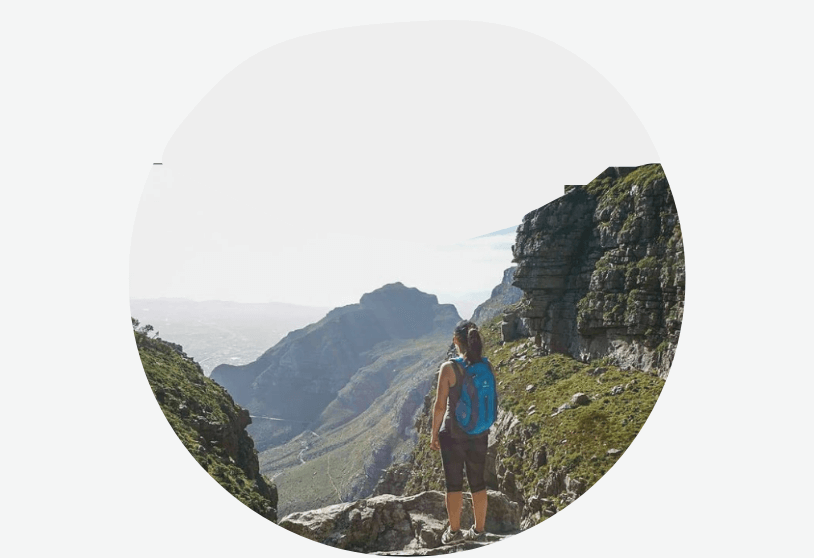
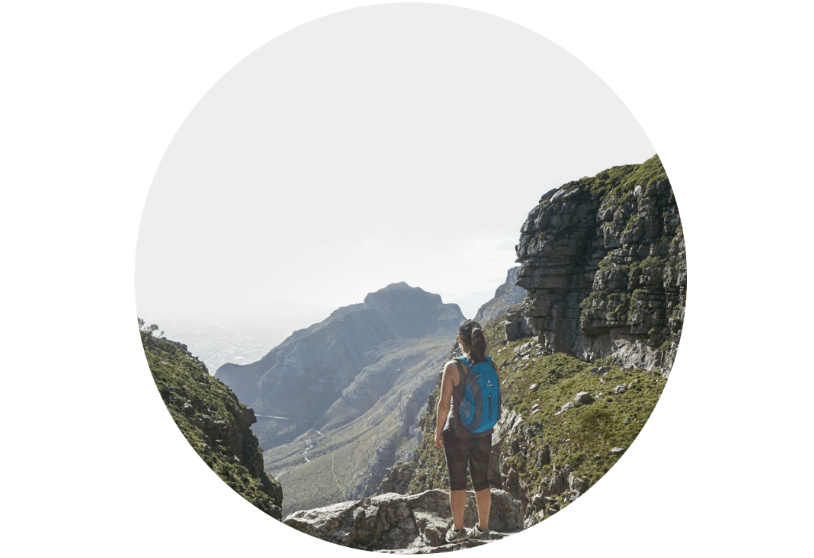
Replaced about images
Replaced about images with new images

diff --git a/src/styles/pages/_about.scss b/src/styles/pages/_about.scss
@@ -56,7 +56,7 @@
   @include media-query("large") {
     height: 22.834rem;
     width: 22.764rem;
-    background-image: url("../../assets/images/brand/about-1024.png");
+    background-image: url("../../assets/images/brand/about-desktop.png");
   }
 
   @include media-query("extra-large") {
